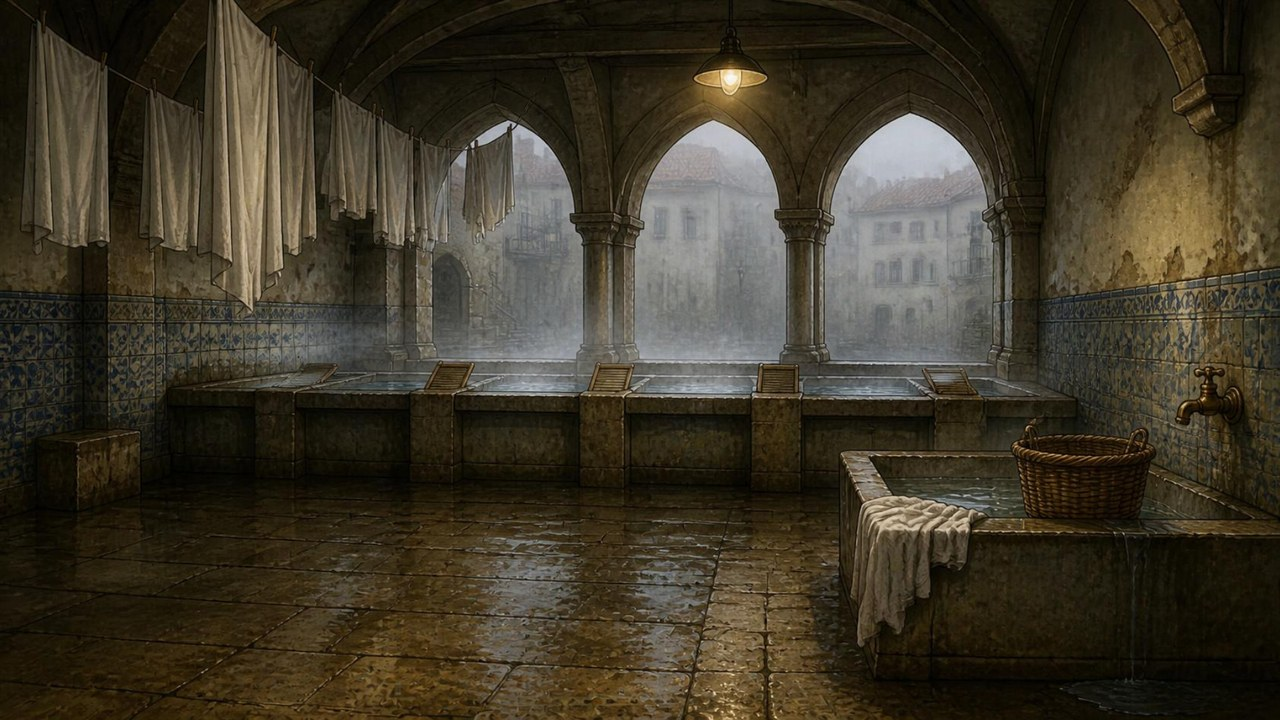
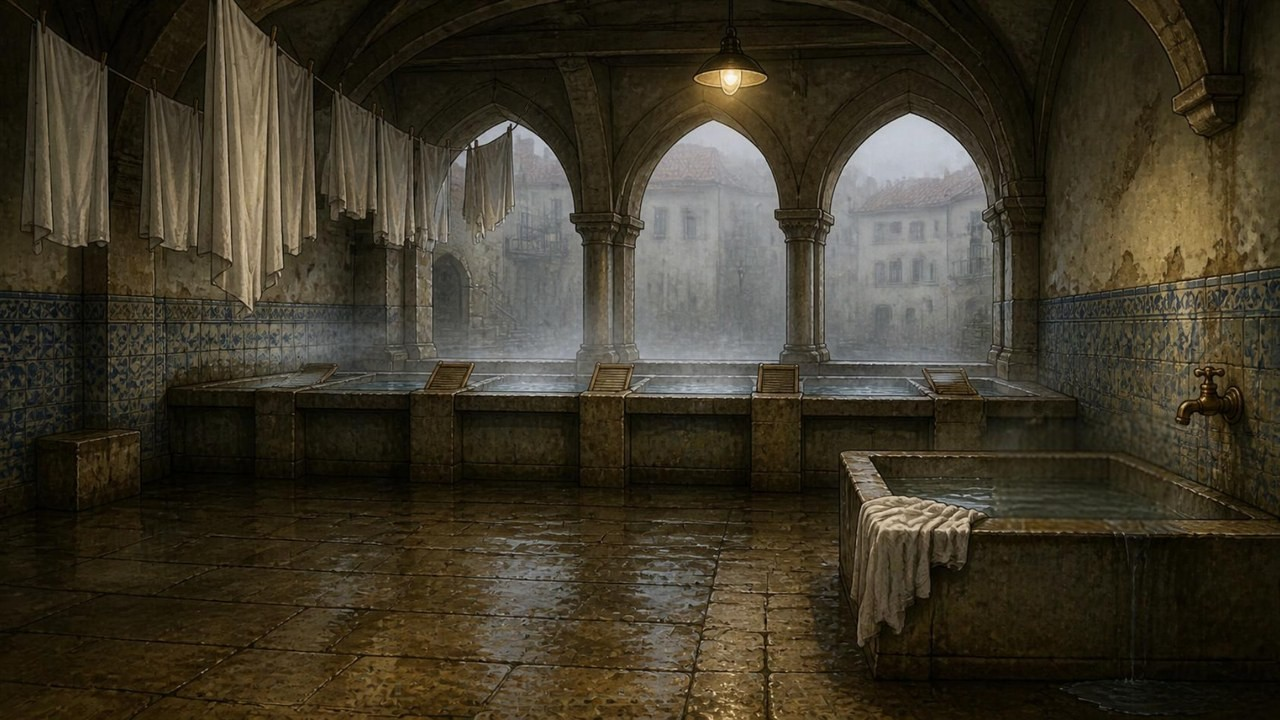
Work in progress: agents mid-pass (checkpoint, not deployed)
Claude-Session: https://claude.ai/code/session_01PQoWp2SmC5amp6FGRiZGFy

Changed region(s): [[0.7812, 0.5806, 0.9062, 0.7639]]

diff --git a/js/story/ch2.js b/js/story/ch2.js
@@ -30,7 +30,7 @@
     },
     // the back basins stand in front of the washerwomen
     occluders: [{ y: 500, polys: [[[160, 383], [300, 375], [1068, 375], [1068, 484], [160, 484]]] }, // from the far edge of the water: they stand behind the basins, hands in
-      { y: 680, when: () => !swimmer, polys: [[[839, 453], [1011, 446], [1013, 420], [1158, 420], [1160, 452], [1280, 470], [1280, 680], [874, 680], [860, 650], [842, 600]]] }], // the big tank and its towel
+      { y: 680, when: () => !swimmer, polys: [[[839, 453], [1011, 446], [1160, 452], [1280, 470], [1280, 680], [874, 680], [860, 650], [842, 600]]] }], // the big tank and its towel (the basket is gone: Alan washes in that corner)
     npcs: [
       { id: 'celeste', x: 600, y: 610, dir: 'e', set: 'wring', when: () => F().ch < 4, name: 'Dona Celeste', look: 'narr_look_celeste', talk: () => S.talkCeleste(),
         items: { sketch: () => S.celesteTile(), notebook: () => S.celesteTile(), file55: () => S.celeste1955(), any: 'alan_fail_06' } },
